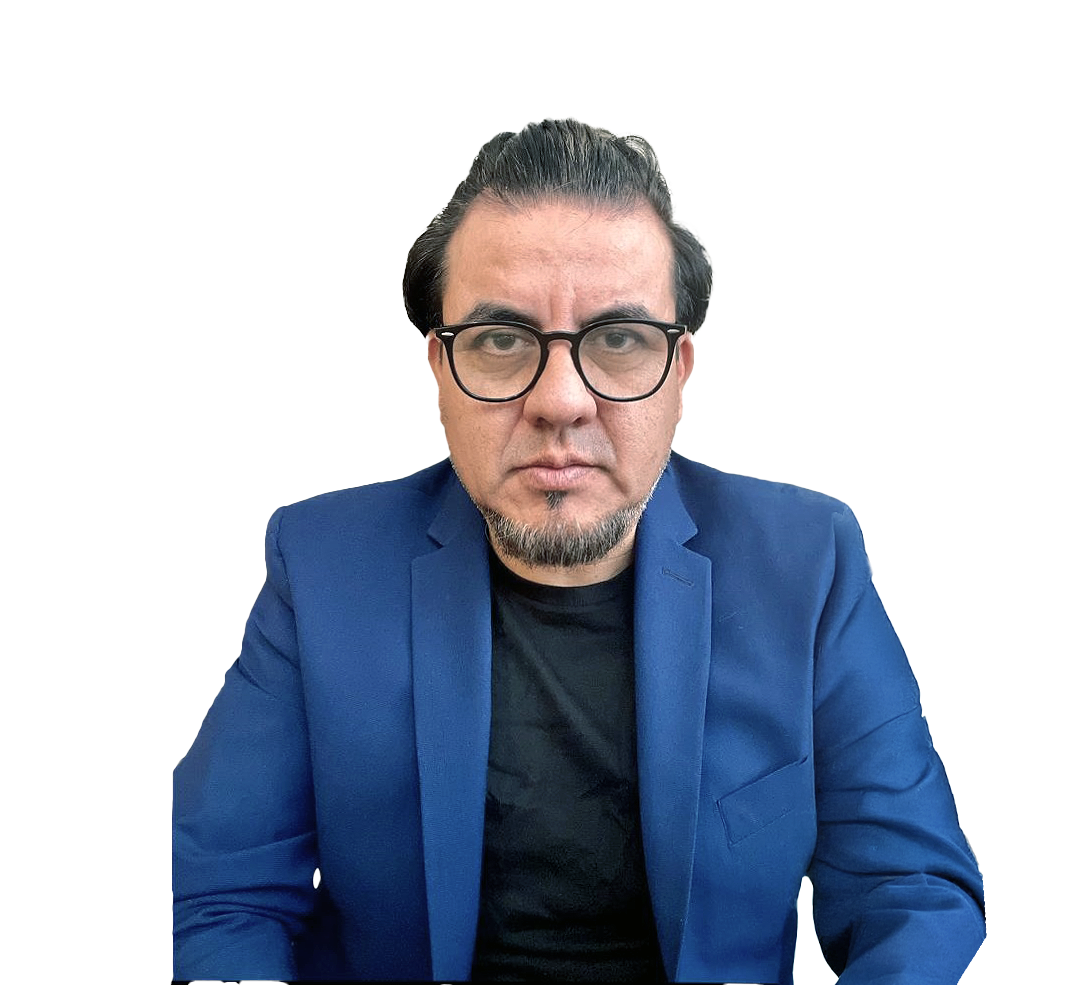
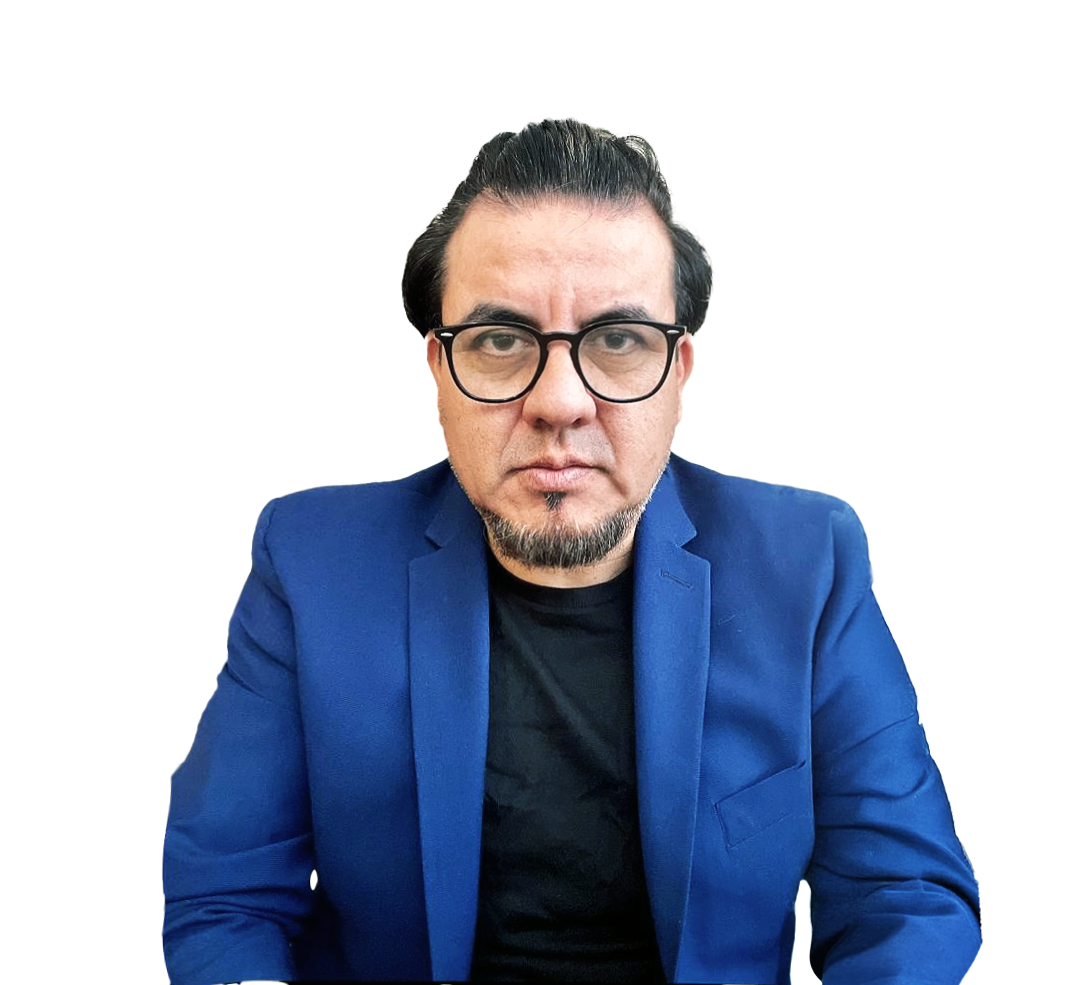
cards2

diff --git a/index.html b/index.html
@@ -52,7 +52,7 @@
             </div>
             
             <div class="heroPic">
-                <img src="images/profile7.png" alt="" >
+                <img src="images/profile2.png" alt="" >
             </div>
           </div heroSection>
          </div navWrap> 
@@ -111,31 +111,28 @@
         </div>
         <div class="col">
           <div class="card h-100">
-            <img src="..." class="card-img-top" alt="...">
+            <img src="images/profile8.jpg" class="card-img-top" alt="...">
             <div class="card-body">
-              <h5 class="card-title">Card title</h5>
-              <p class="card-text">This is a short card.</p>
+              <h5 class="card-title">Skills</h5>
+              <p class="card-text">My expertise spans a wide range of web development tools and technologies, focusing on creating efficient, 
+                scalable, and engaging digital experiences. 
+                I embrace continuous learning to stay adaptable and evolve with industry standards, 
+                ensuring I bring the best solutions to every project.</p>
+              <p>Explore My Skills <span style="font-size: 1em;"> &rarr;</span></p> </p>
             </div>
           </div>
         </div>
         <div class="col">
           <div class="card h-100">
-            <img src="..." class="card-img-top" alt="...">
+            <img src="images/profile9.jpg" class="card-img-top" alt="...">
             <div class="card-body">
-              <h5 class="card-title">Card title</h5>
+              <h5 class="card-title">Experience </h5>
               <p class="card-text">This is a longer card with supporting text below as a natural lead-in to additional content.</p>
+              <p>Find Out More <span style="font-size: 1em;"> &rarr;</span></p> </p>
             </div>
           </div>
         </div>
-        <div class="col">
-          <div class="card h-100">
-            <img src="..." class="card-img-top" alt="...">
-            <div class="card-body">
-              <h5 class="card-title">Card title</h5>
-              <p class="card-text">This is a longer card with supporting text below as a natural lead-in to additional content. This content is a little bit longer.</p>
-            </div>
-          </div>
-        </div>
+        
       </div>
     </div>
     
@@ -150,14 +147,7 @@
   </div>
 
   <div class="container4">
-    <h1>The Tools That Define My Work</h1>
-
-    <h2>Every Skill Tells a Story</h2>
-
-    <p> Each skill I’ve developed reflects a journey of curiosity and persistence. From coding 
-          and designing websites to managing projects and working with clients, these tools aren’t 
-          just technical—they’re personal milestones. They represent years of learning, challenges 
-          overcome, and a passion for turning ideas into something real </p>
+    
   </div>
     
 

diff --git a/cssP/styles.css b/cssP/styles.css
@@ -269,24 +269,18 @@
     max-width: 1300px;
 }
 
-.card img {
-    border: none;
-}
+
 
 .container3 {
-    background-image: url('../images/background1.jpg');
-    background-size: cover; /* Adjusts image to cover the div */
-    background-position: center; /* Centers the image */
-    background-repeat: no-repeat; /* Prevents image repetition */
-    height: 400px; /* Optional: Sets height to fill viewport */
-    color: rgb(75, 73, 73); /* Optional: Adjusts text color for readability */
-    background-color: black;
-    margin: 0;
-    overflow: hidden;
+    
+    background-color: #1A1A2E;
+    color: white;
+    height: 600px;
+    
 }
 
 .container4 {
-    background-color: grey;
+    background-color: black;
 }
 
 
@@ -303,6 +297,63 @@
 }
 
 
+
+
+@media (max-width: 1600px){
+    .container {
+        max-width: 1124px;
+      }
+      .heroPic img {
+        max-height: 500px !important;
+    }
+    .twoSquares {
+        max-width: 1124px;
+    }
+
+    .squareR img {
+        max-width: 100%;
+        padding-left: 15%;
+        
+    }
+
+    .squareL p {
+        
+        font-size: 1.2rem;
+        
+    }
+
+    .cardSections {
+        
+        max-width: 1124px;
+    }
+}
+
+@media (max-width: 1350px) {
+    
+    .heroPic {
+        max-width: 40%;
+    }
+   
+
+    .twoSquares h1 {
+        font-size: 85px;
+    }
+/**
+    .squareL, .squareR {
+        width: 100%; /* Ensure full width for each section */
+        /**text-align: center; /* Optional: Center-align content */
+    /**}**/
+
+    .squareR img {
+        width: 100%; /* Make the image responsive */
+        max-width: 600px; /* Optional: Limit maximum image size */
+    }
+
+    .squareR {
+        margin-top: 30px;
+    }
+    
+}
 
 @media (max-width: 983px) {
     .navbar-collapse {
@@ -348,21 +399,7 @@
         padding-right: 3%;
     }
 
-    .twoSquares {
-        width: 98%;
-    }
-
-    .row {
-        width: 98%;
-    }
-
-}
-
-@media (max-width: 1350px) {
     
-    .heroPic {
-        max-width: 40%;
-    }
     .twoSquares {
         padding: 2%;
         flex-direction: column;
@@ -375,15 +412,16 @@
     }
 
     .squareR img {
-        width: 100%; /* Make the image responsive */
-        max-width: 600px; /* Optional: Limit maximum image size */
+        padding-left: 0;
     }
 
-    .squareR {
-        margin-top: 30px;
+
+    .row {
+        width: 98%;
     }
-    
+
 }
+
 
 @media (max-width: 768px) {
 
@@ -402,7 +440,7 @@
     }
     
     .heroDescription {
-        margin-bottom: 5%;
+        margin: 5%;
     }
 
     .heroDescription h1 {
